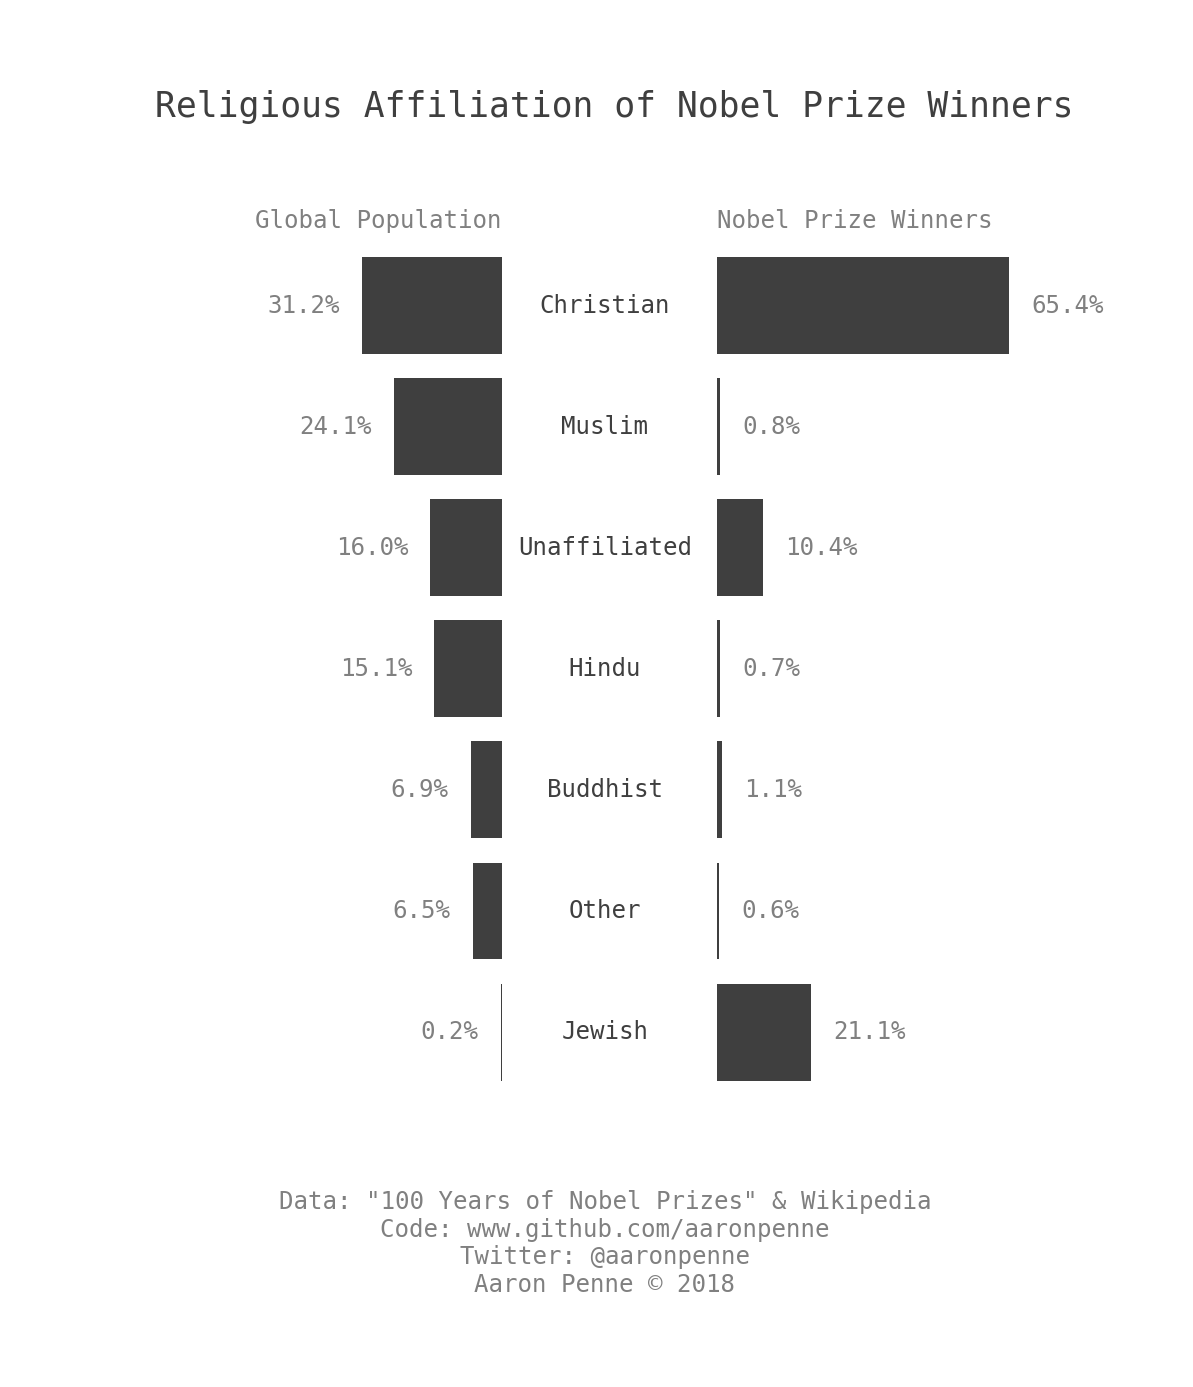
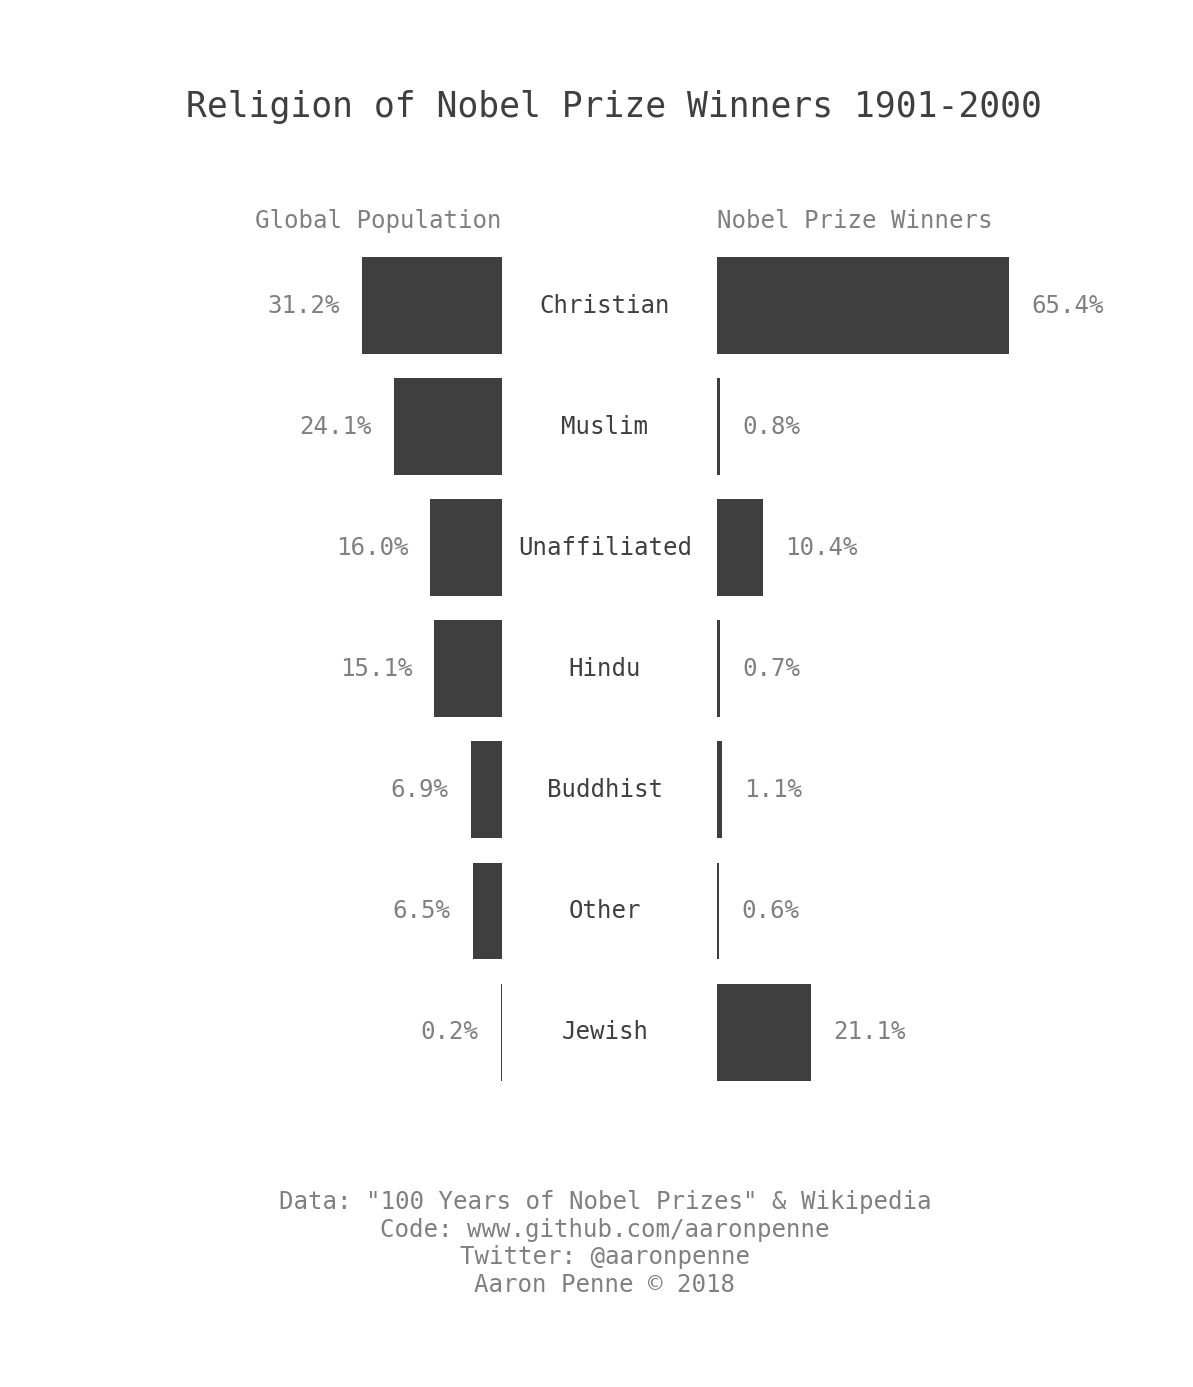
Added Nobel Prize chart image

Changed region(s): [[0.1241, 0.062, 0.8994, 0.093]]

diff --git a/nobel/nobel_pop_bar.py b/nobel/nobel_pop_bar.py
@@ -81,7 +81,7 @@ for i,x in enumerate(df['religion']):
 
 # Title and annotations
 ax[0].text(center, 7.5,
-        'Religious Affiliation of Nobel Prize Winners',
+        'Religion of Nobel Prize Winners 1901-2000',
         va='bottom',
         ha='center',
         color=color,
